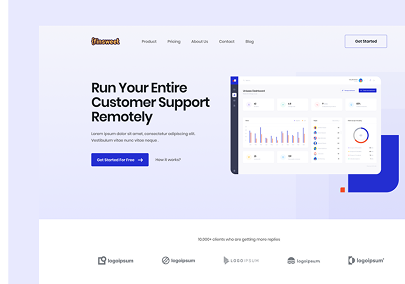
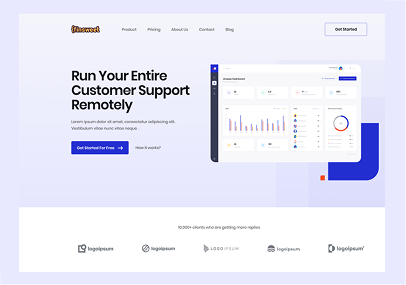
feat: add feature part

diff --git a/index.html b/index.html
@@ -16,7 +16,7 @@
 
 <body>
 
-    <!-- ========================================
+<!-- ========================================
                 NAVBAR PART
 ========================================= -->
     <nav class="navbar navbar-expand-lg">
@@ -54,7 +54,7 @@
             </div>
         </div>
     </nav>
-    <!-- ========================================
+<!-- ========================================
                 BANNER PART
 ========================================= -->
     <section class="banner">
@@ -72,7 +72,7 @@
             </div>
         </div>
     </section>
-    <!-- ========================================
+<!-- ========================================
                 WORK PART
 ========================================= -->
     <section class="work-part">
@@ -116,7 +116,7 @@
 
         </div>
     </section>
-    <!-- ========================================
+<!-- ========================================
                 PROJECTS PART
 ========================================= -->
     <section class="project-part">
@@ -144,8 +144,6 @@
                         </div>
                     </div>
                 </div>
-
-
                 <div class="col-lg-4">
                     <div class="project-side-content">
                         <img src="./images/card-2.png" alt="">
@@ -171,7 +169,73 @@
             </div>
         </div>
     </section>
-
+<!-- ========================================
+                FEATURE PART
+========================================= -->
+    <section class="feature-part">
+        <div class="container">
+            <div class="common-title">
+                <p>Features</p>
+                <h2>Design that solves problems, one product at a time</h2>
+            </div>
+            <div class="row">
+                <div class="col-lg-4">
+                    <div class="card">
+                        <img src="./images/Icon.png" class="card-img-top" alt="...">
+                        <div class="card-body">
+                            <h5 class="card-title">Uses Client First</h5>
+                            <p class="card-text">Euismod faucibus turpis eu gravida mi. Pellentesque et velit aliquam sed faucib turpis eu gravida mi. Pellentesque et velit aliquam sed mi. </p>
+                        </div>
+                    </div>
+                </div>
+                <div class="col-lg-4">
+                    <div class="card">
+                        <img src="./images/Icon (1).png" class="card-img-top" alt="...">
+                        <div class="card-body">
+                            <h5 class="card-title">Uses Client First</h5>
+                            <p class="card-text">Euismod faucibus turpis eu gravida mi. Pellentesque et velit aliquam sed faucib turpis eu gravida mi. Pellentesque et velit aliquam sed mi. </p>
+                        </div>
+                    </div>
+                </div>
+                <div class="col-lg-4">
+                    <div class="card">
+                        <img src="./images/Icon (2).png" class="card-img-top" alt="...">
+                        <div class="card-body">
+                            <h5 class="card-title">Uses Client First</h5>
+                            <p class="card-text">Euismod faucibus turpis eu gravida mi. Pellentesque et velit aliquam sed faucib turpis eu gravida mi. Pellentesque et velit aliquam sed mi. </p>
+                        </div>
+                    </div>
+                </div>
+                <div class="col-lg-4">
+                    <div class="card">
+                        <img src="./images/Icon (3).png" class="card-img-top" alt="...">
+                        <div class="card-body">
+                            <h5 class="card-title">Uses Client First</h5>
+                            <p class="card-text">Euismod faucibus turpis eu gravida mi. Pellentesque et velit aliquam sed faucib turpis eu gravida mi. Pellentesque et velit aliquam sed mi. </p>
+                        </div>
+                    </div>
+                </div>
+                <div class="col-lg-4">
+                    <div class="card">
+                        <img src="./images/Icon (4).png" class="card-img-top" alt="...">
+                        <div class="card-body">
+                            <h5 class="card-title">Uses Client First</h5>
+                            <p class="card-text">Euismod faucibus turpis eu gravida mi. Pellentesque et velit aliquam sed faucib turpis eu gravida mi. Pellentesque et velit aliquam sed mi. </p>
+                        </div>
+                    </div>
+                </div>
+                <div class="col-lg-4">
+                    <div class="card">
+                        <img src="./images/Icon (5).png" class="card-img-top" alt="...">
+                        <div class="card-body">
+                            <h5 class="card-title">Uses Client First</h5>
+                            <p class="card-text">Euismod faucibus turpis eu gravida mi. Pellentesque et velit aliquam sed faucib turpis eu gravida mi. Pellentesque et velit aliquam sed mi. </p>
+                        </div>
+                    </div>
+                </div>
+            </div>
+        </div>
+    </section>
 
     <script src="./js/bootstrap.bundle.min.js"></script>
 </body>

diff --git a/css/style.css b/css/style.css
@@ -258,30 +258,26 @@ nav{
     margin-top: 30px;
 }
 
-
-
-
 .project-side-content{
     position: relative;
     overflow: hidden;
 }
 .project-side-content .side-overlay{
-    width: 100%;
+    width: 98%;
     height: 100%;
     background-image: linear-gradient(330deg, rgb(0, 0, 0), rgba(0, 0, 0, 0.42));
     position: absolute;
-    top: 0px;
-    right: -420px;
+    top: 300px;
+    left: 0px;
     transition: 0.4s;
     padding-top: 100px;
     padding-left: 30px;
     display: flex;
     flex-direction: column;
-    justify-content: center
+    justify-content: center;
 }
-
 .project-side-content:hover .side-overlay{
-    right: 0px;
+    top: 0px;
     overflow: visible;
 }
 .project-side-content .side-overlay h4{
@@ -314,4 +310,56 @@ nav{
 }
 .last-overlay{
     margin-top: 30px;
+}
+/* ========================================
+                FEATURE PART
+======================================== */
+.feature-part{
+    background-color: #F4F6FC;
+    padding: 128px 0;
+}
+.feature-part .row{
+    row-gap: 24px;
+    padding-top: 47px;
+}
+.feature-part .common-title p{
+    font-weight: 500;
+    text-align: center;
+    width: auto;
+}
+.feature-part .common-title h2{
+    font-weight: 600;
+    text-align: center;
+    width: 630px;
+    margin: auto;
+}
+.feature-part .card{
+    padding-top: 58px;
+    padding-bottom: 48px;
+    padding-left: 48px;
+    padding-right: 32px;
+    border: 0px;
+    border-radius: 0px;
+}
+.feature-part .card-body{
+    padding: 0px !important;
+}
+.feature-part .card-img-top{
+    width: 8%;
+}
+.feature-part .card-title{
+    color: #282938;
+    font-size: 24px;
+    font-weight: 500;
+    font-family: "Poppins", sans-serif;
+    padding-top: 22px;
+    padding-bottom: 12px;
+}
+.feature-part .card-text{
+    color: #282938;
+    font-size: 16px;
+    font-weight: 400;
+    font-family: "Poppins", sans-serif;
+    width: 324.08px;
+    line-height: 28px;
 }
